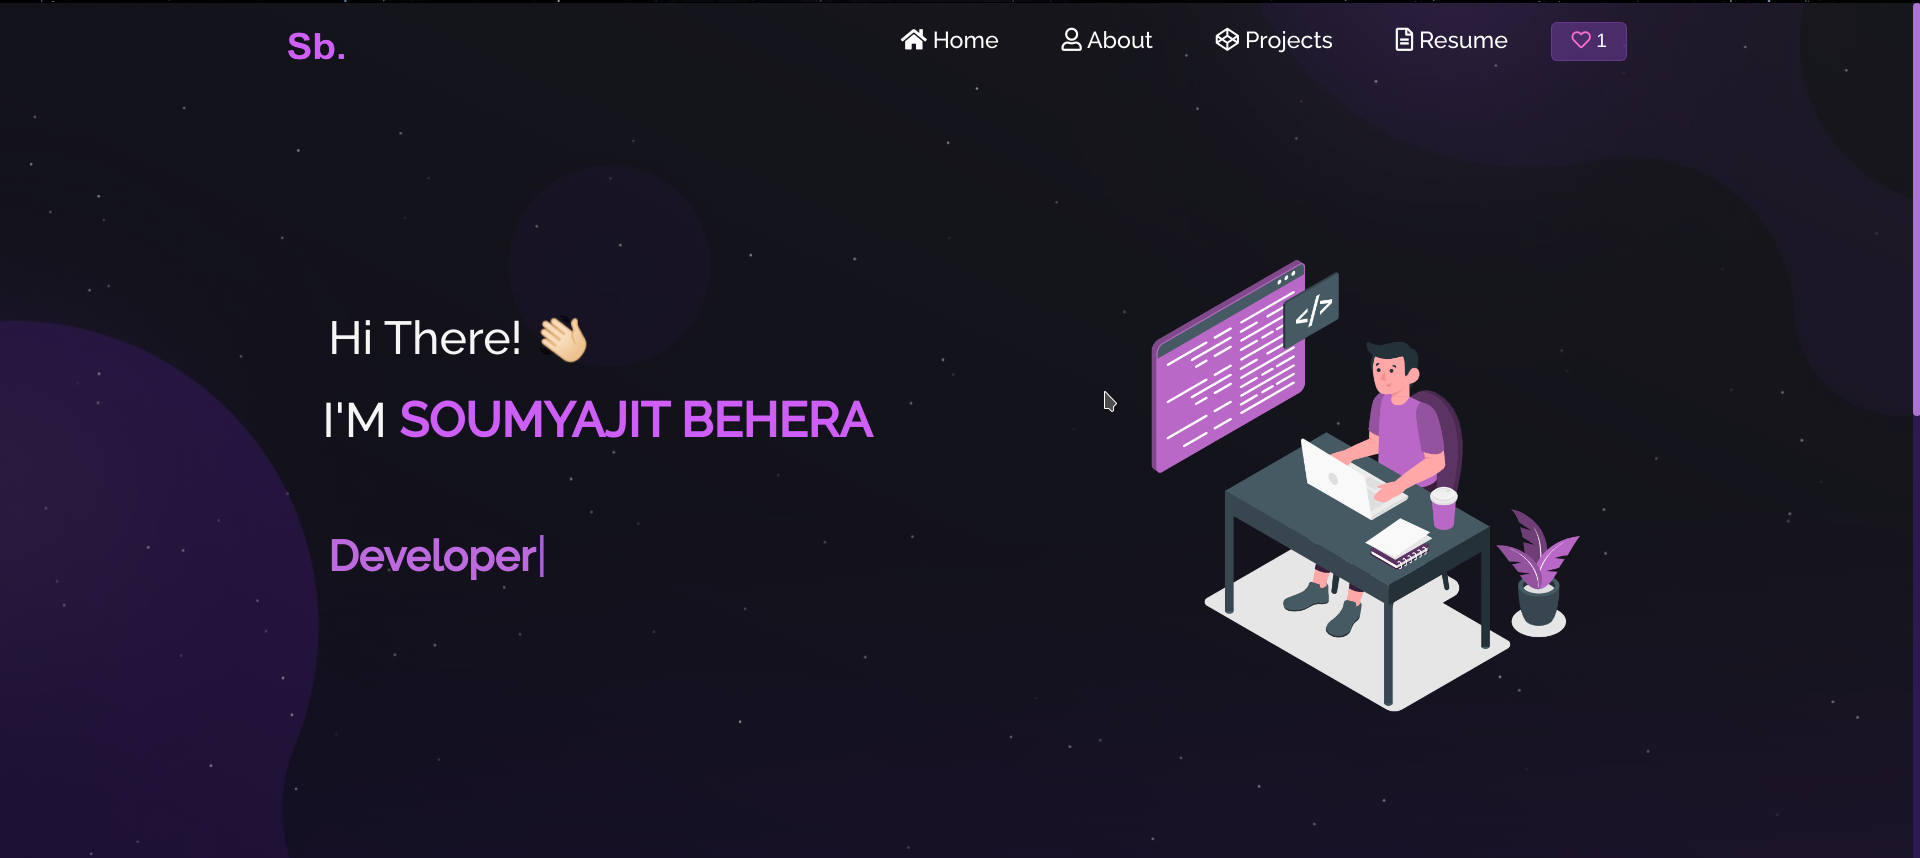
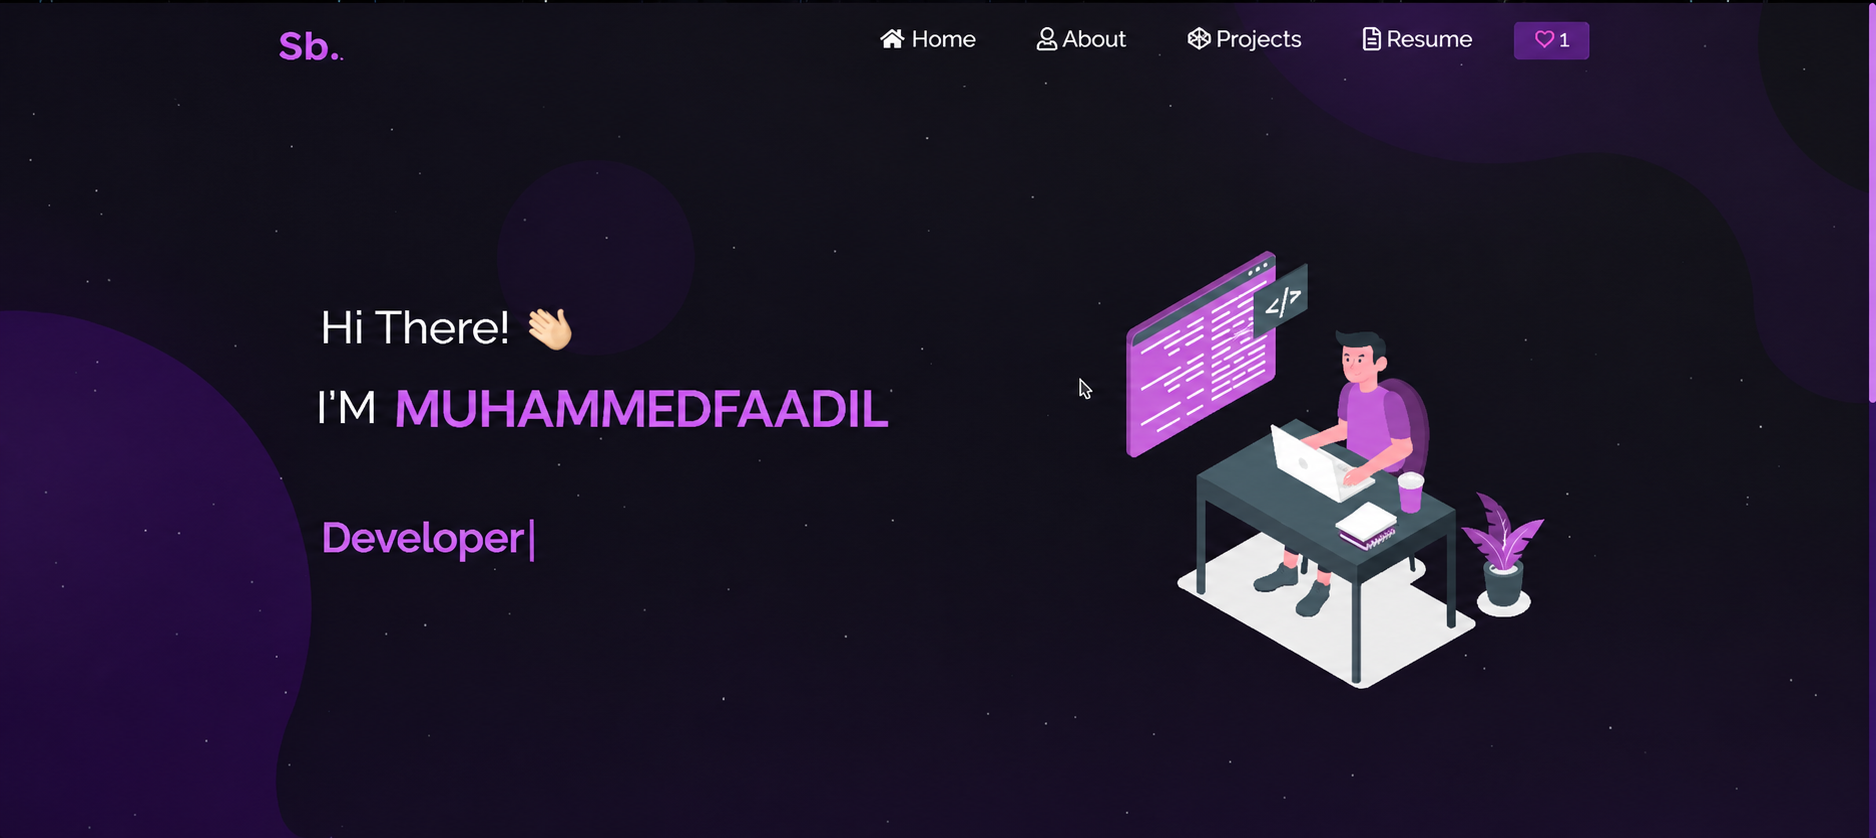
image change

diff --git a/src/components/Navbar.js b/src/components/Navbar.js
@@ -2,11 +2,11 @@ import React, { useState } from "react";
 import Navbar from "react-bootstrap/Navbar";
 import Nav from "react-bootstrap/Nav";
 import Container from "react-bootstrap/Container";
-import logo from "../Assets/logo.png";
+// import logo from "../Assets/logo.png";
 import Button from "react-bootstrap/Button";
 import { Link } from "react-router-dom";
 import { CgGitFork } from "react-icons/cg";
-import { ImBlog } from "react-icons/im";
+// import { ImBlog } from "react-icons/im";
 import {
   AiFillStar,
   AiOutlineHome,
@@ -40,7 +40,9 @@ function NavBar() {
       <Container>
         <Navbar.Brand href="/" className="d-flex">
           {/* <img src={logo} className="img-fluid logo" alt="brand" /> */}
-          <div className="img-fluid logo" alt="brand">Faadil</div> 
+          <div className="img-fluid logo" alt="brand">
+            MF
+          </div>
         </Navbar.Brand>
         <Navbar.Toggle
           aria-controls="responsive-navbar-nav"
@@ -105,7 +107,7 @@ function NavBar() {
 
             <Nav.Item className="fork-btn">
               <Button
-                href="https://github.com/soumyajit4419/Portfolio"
+                href="https://github.com/Fclb/Portfolio-master"
                 target="_blank"
                 className="fork-btn-inner"
               >

diff --git a/README.md b/README.md
@@ -1,6 +1,6 @@
 <h2 align="center">
   Portfolio Website - v2.0<br/>
-  <a href="https://soumyajit.vercel.app/" target="_blank">soumyajit.tech</a>
+  <a href="https://soumyajit.vercel.app/" target="_blank">Muhammedfaadil.tech</a>
 </h2>
 <div align="center">
   <img alt="Demo" src="./Images/readme-img1.png" />
